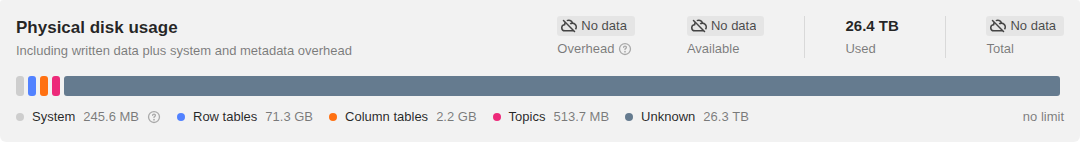
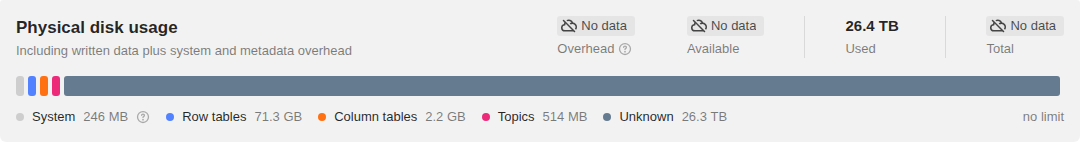
test: update broken cases

Changed region(s): [[0.0917, 0.7887, 0.7028, 0.8732]]

diff --git a/tests/suites/tenant/diagnostics/tabs/tenantOverviewStorage.test.ts b/tests/suites/tenant/diagnostics/tabs/tenantOverviewStorage.test.ts
@@ -25,7 +25,7 @@ const GROUPED_USER_DATA_SUMMARY_CARD_QA = 'tenant-storage-grouped-user-data-summ
 const GROUPED_PHYSICAL_SUMMARY_CARD_QA = 'tenant-storage-grouped-physical-summary-card';
 const STORAGE_SCREENSHOT_THEMES = ['light', 'dark'] as const;
 const STORAGE_SCREENSHOT_VIEWPORT = {width: 1600, height: 1000};
-const EXACT_COLUMN_TABLE_TOOLTIP_REGEXP = /2\s244\.6\sMB/;
+const EXACT_COLUMN_TABLE_TOOLTIP_REGEXP = /2\s245\sMB/;
 const NO_DATA_TEXT = 'No data';
 const QUOTA_MISSING_TITLE = 'No quota? This is wrong.';
 const QUOTA_MISSING_DESCRIPTION =
@@ -632,7 +632,7 @@ test.describe('Tenant Overview storage metrics tab', () => {
                 physicalSummary
                     .locator(LEGEND_ITEM_SELECTOR)
                     .filter({hasText: 'System'})
-                    .getByText('245.6 MB', {exact: true}),
+                    .getByText('246 MB', {exact: true}),
             ).toBeVisible();
             await expect(
                 physicalSummary